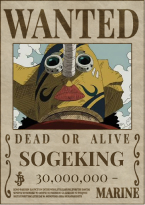
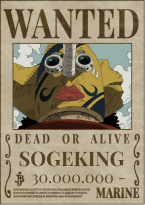
feito pequenos ajustes

Changed region(s): [[0.2207, 0.8488, 0.8552, 0.9073]]

diff --git a/src/pages/home/index.html b/src/pages/home/index.html
@@ -71,8 +71,9 @@
                 </div>
 
                 <div class="charsDescription">
+                    
                     <div class="poster">
-                        <img src="../../assets/images/luffyWantedFirst.jpg" alt="cartaz de procurado">
+                        <img src="../../assets/images/cartazes/luffyWanted.jpg" alt="cartaz de procurado">
                     </div>
                     <div class="description">
                         <h3>LUFFY, O Capitão</h3>
@@ -80,11 +81,7 @@
                             Apesar de sua natureza impulsiva e às vezes ingênua, Luffy possui uma inteligência surpreendente quando se trata de estratégia e combate. Ele é extremamente leal aos seus companheiros e está disposto a fazer qualquer coisa por eles. Sua jornada para se tornar o Rei dos Piratas é impulsionada não apenas pelo desejo de fama e riqueza, mas também pela busca da liberdade e pela realização de seus próprios ideais de justiça e aventura. <br><br>
                             Além disso, Luffy é um verdadeiro líder, capaz de inspirar e motivar aqueles ao seu redor com sua determinação inabalável e sua capacidade de superar qualquer obstáculo. Sua habilidade de esticar seu corpo, adquirida ao comer a Fruta do Diabo Gomu Gomu, adiciona um elemento único e divertido às suas batalhas, tornando-o um dos personagens mais memoráveis e carismáticos do mundo dos animes e mangás.</p>
                     </div>
-                    <div class="weapon">
-                        <img src="../../assets/images/gomugomu.png" alt="akuma no mi">
-                        <h3>Gomu Gomu no Mi</h3>
-                        <h3>Tipo: Paramecia</h3>
-                    </div>
+
                 </div>
             </section>
         </section>

diff --git a/src/pages/home/style.css b/src/pages/home/style.css
@@ -220,7 +220,7 @@ main .summary{
     align-items: center;
     justify-content: space-around;
     width: 90%;
-    height: 524px;
+    height: 75vh;
     padding: 0 40px;
     background: rgb(212,194,170);
     background: radial-gradient(circle, rgba(212,194,170,1) 0%, rgba(165,139,118,1) 100%);
@@ -229,7 +229,7 @@ main .summary{
 }
 
 .poster img{
-    width: 100%;
+    width: 20vw;
     border: 3px solid #38261A;
 }
 

diff --git a/src/pages/cadastro/index.html b/src/pages/cadastro/index.html
@@ -14,7 +14,7 @@
             <li><a href="../home/index.html">Home</a></li>
             <li><a href="../sagas/index.html">Sagas</a></li>
             <li><a href="../guia/index.html">Episódios Fillers</a></li>
-            <li><a href="#">Quiz</a></li>
+            <li><a href="#">Sobre Mim</a></li>
         </ul>
     </header>
 

diff --git a/src/pages/login/index.html b/src/pages/login/index.html
@@ -13,7 +13,7 @@
             <li><a href="../home/index.html">Home</a></li>
             <li><a href="../sagas/index.html">Sagas</a></li>
             <li><a href="../guia/index.html">Episódios Fillers</a></li>
-            <li><a href="#">Quiz</a></li>
+            <li><a href="#">Sobre Mim</a></li>
         </ul>
     </header>
 
